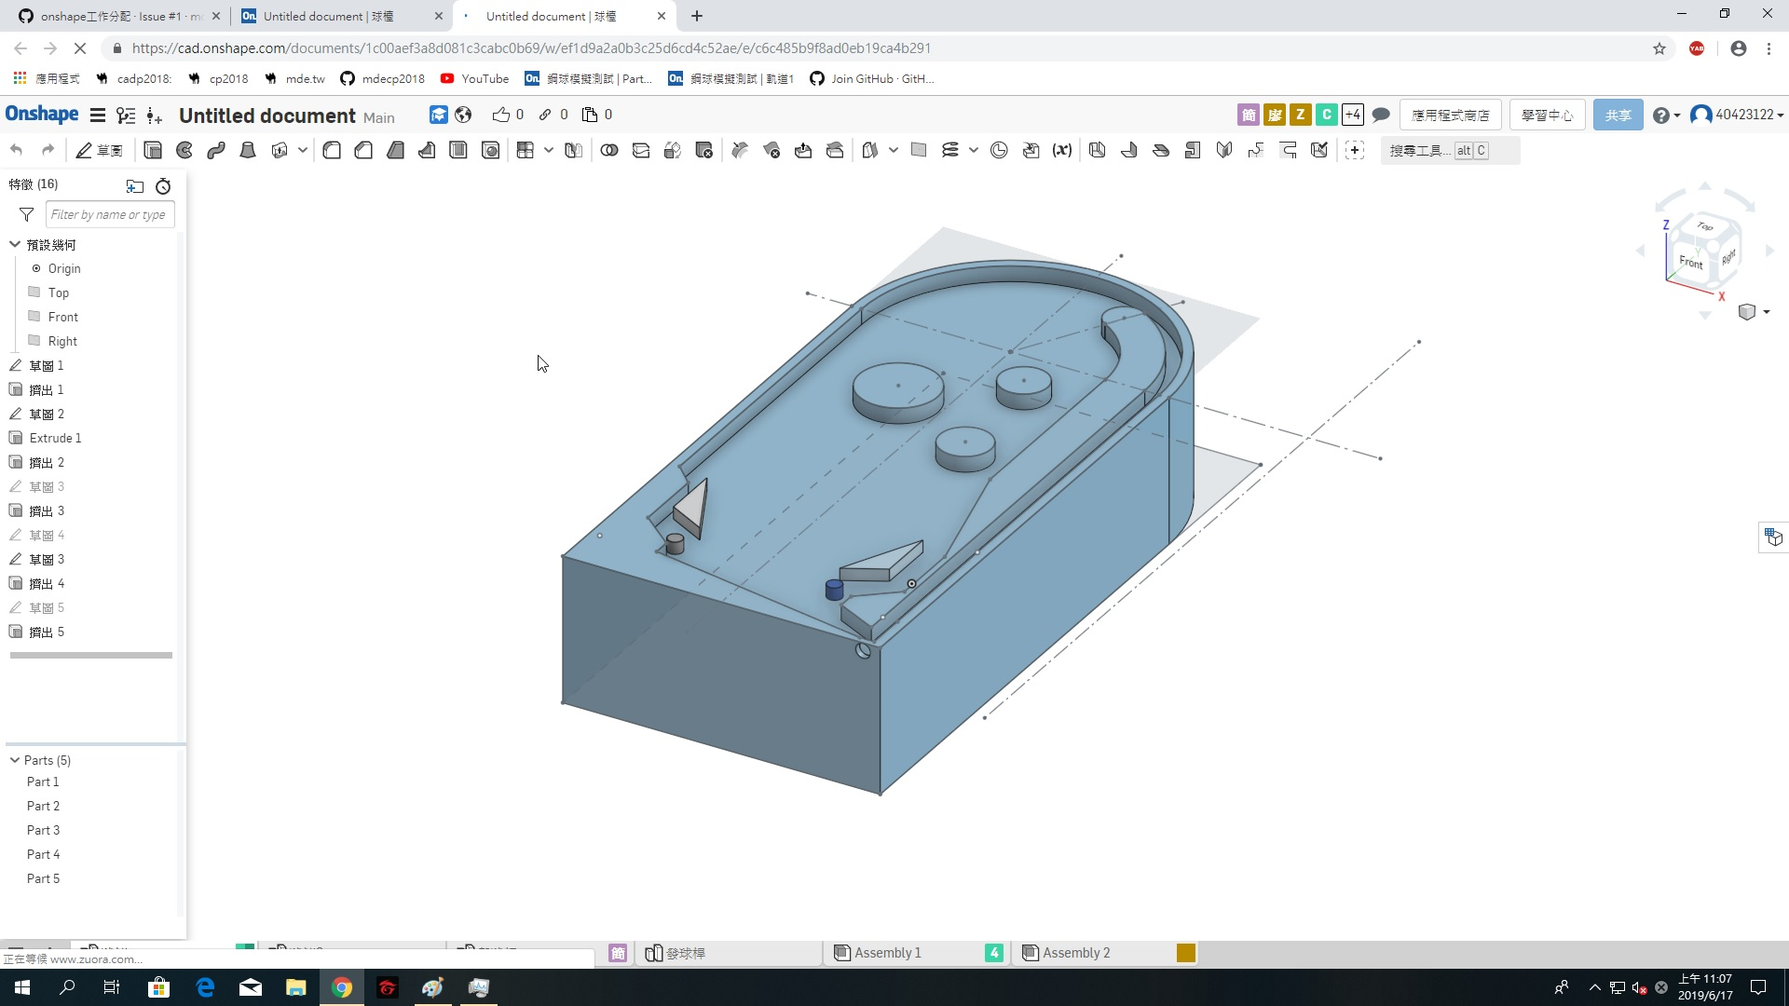
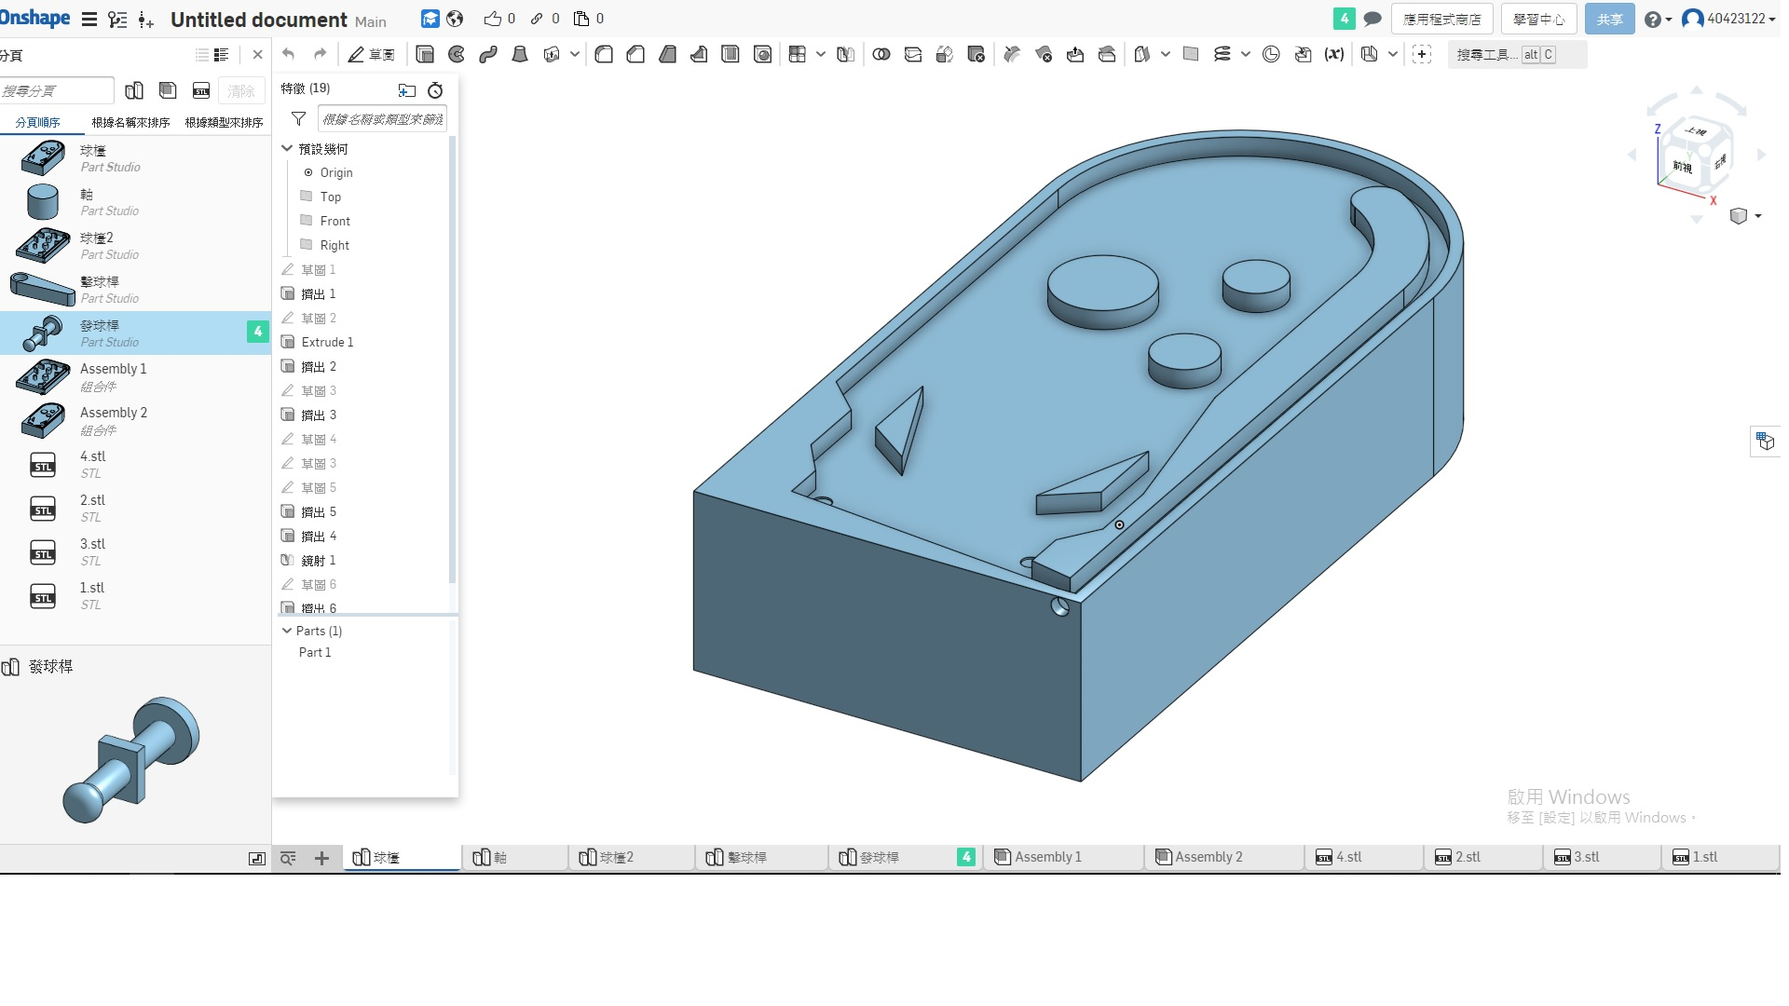
add video and words

diff --git a/content/期末考週彈珠檯.html b/content/期末考週彈珠檯.html
@@ -68,24 +68,15 @@ $(function(){
 </ul>
 </confmenu></header>
 <div class='container'><nav><ul id='css3menu1' class='topmenu'><li><a href='協同倉儲資訊.html'>協同倉儲資訊</a><li><a href='每週心得實紀.html'>每週心得實紀</a><ul><li><a href='期中前.html'>期中前</a><ul><li><a href='第一週.html'>第一週</a><li><a href='第二週.html'>第二週</a><li><a href='第三週.html'>第三週</a><li><a href='第四週.html'>第四週</a><li><a href='第五週.html'>第五週</a><li><a href='第六週.html'>第六週</a><li><a href='第七週.html'>第七週</a><li><a href='第八週.html'>第八週</a><li><a href='第九週.html'>第九週</a></li></ul><li><a href='期中後.html'>期中後</a><ul><li><a href='第十週.html'>第十週</a><li><a href='第十一週.html'>第十一週</a><li><a href='第十二週.html'>第十二週</a><li><a href='第十三週.html'>第十三週</a><li><a href='第十四週.html'>第十四週</a><li><a href='第十五週.html'>第十五週</a><li><a href='第十六週.html'>第十六週</a></li></li></ul></ul><li><a href='自製可攜式系統.html'>自製可攜式系統</a><li><a href='Vrep模擬.html'>Vrep模擬</a><li><a href='VirtualBox建立虛擬主機.html'>VirtualBox建立虛擬主機</a><li><a href='送球機構模擬.html'>送球機構模擬</a><li><a href='期末報告影片.html'>期末報告影片</a><li><a href='期末考週彈珠檯.html'>期末考週彈珠檯</a></li></ul></nav><section>期末報告影片 << <a href='期末報告影片.html'>Previous</a> <br /><h1>期末考週彈珠檯</h1>
-<h6><a href="https://cad.onshape.com/documents/1c00aef3a8d081c3cabc0b69/w/ef1d9a2a0b3c25d6cd4c52ae/e/c284e1c17e1c7c138a990828">https://cad.onshape.com/documents/1c00aef3a8d081c3cabc0b69/w/ef1d9a2a0b3c25d6cd4c52ae/e/c284e1c17e1c7c138a990828</a><br/><br/><a href="https://github.com/mdekmol/cd2019a-task1-2019cda_t1_g6/issues/1">https://github.com/mdekmol/cd2019a-task1-2019cda_t1_g6/issues/1</a></h6>
-<p>老師好我是40423122四設四甲林國蓁</p>
-<p>2019-6-17-11:57</p>
-<p>電腦的錄製軟體出了問題所以用手機替代錄影</p>
-<p>18週期末考 我負責的是球檯的繪製</p>
-<p>途中遇到很多狀況</p>
-<p>一開始的全班網路跑不動</p>
-<p>而在老師修正後</p>
-<p>在網路方面-onshape</p>
-<p>即使電腦沒有運行其他應用程式卻也是非常的當</p>
-<p>導致畫圖十分的不順利</p>
-<p>修改一個尺寸就會當三分鐘</p>
-<p>途中也有告知老師此問題</p>
-<p>老師是說是個人電腦問題</p>
-<p>但全班同學其實都有這個狀況</p>
-<p>可能還需要進一步的改善</p>
-<p>而在vrep方面還在努力中</p>
-<p>先拍影片告知進度</p>
-<p>圖檔就負在個人網頁上了</p>
-<p>網路有點慢</p>
-<p>程式方面也在努力中</p><br />期末報告影片 << <a href='期末報告影片.html'>Previous</a> </section></div></body></html>
+<h6>onshape:<br/><a href="https://cad.onshape.com/documents/1c00aef3a8d081c3cabc0b69/w/ef1d9a2a0b3c25d6cd4c52ae/e/c284e1c17e1c7c138a990828">https://cad.onshape.com/documents/1c00aef3a8d081c3cabc0b69/w/ef1d9a2a0b3c25d6cd4c52ae/e/c284e1c17e1c7c138a990828</a><br/><br/>github issues:<br/><a href="https://github.com/mdekmol/cd2019a-task1-2019cda_t1_g6/issues/1">https://github.com/mdekmol/cd2019a-task1-2019cda_t1_g6/issues/1</a></h6>
+<p>2019-6-17-11:57<br/>老師好我是40423122四設四甲林國蓁<br/><br/>電腦的錄製軟體出了問題所以用手機替代錄影,第18週期末考,我和陳霖負責的是"球檯的繪製",途中遇到很多狀況,一開始的全班網路跑不動,而在老師修正後,在網路方面(onshape)還是有狀況,即使電腦沒有運行其他應用程式,還是非常的當,導致畫圖十分的不順利,修改一個尺寸就會當三分鐘,途中也有告知老師此問題,老師是說是個人電腦問題,但全班同學其實都有這個狀況,小組也有因此而拖延到後續操作時間<br/>往後可能需要考慮是否將此電腦教室的部分設定在重開機後重置,否則很多學生下載了一堆無用的軟體,可能無形中損害電腦的使用效益和同學的權益.<br/><br/>而在vrep和程式方面還在努力中,先拍影片告知進度,圖檔付在個人網頁上<br/><br/>問題排除:<br/>在繪製球檯本體的時候有發現一個問題,在剛開始設計的時候把擊球桿的軸也一起設計在球檯本體上,但是後來發現,在vrep要模擬的時候會無法操作,所以將擊球桿的軸,特地繪製另一軸之零件,而球檯本體則挖出一個洞可以組合擊球桿的軸,vrep才能順利作動<br/><br/><br/></p>
+<p>2019-6-20-00:21<br/><br/>製作出了pinball machine v-rep simulator,以下為操作影片<iframe allowfullscreen="allowfullscreen" height="314" src="//www.youtube.com/embed/FLV4oz4HB48" width="560"></iframe></p>
+<p><span>V-rep ttt 檔案:</span><br/><a href="https://drive.google.com/file/d/1zdIu07mhxdCVrpU4ZcnCn_MovFec96Yv/view?usp=sharing">https://drive.google.com/file/d/1zdIu07mhxdCVrpU4ZcnCn_MovFec96Yv/view?usp=sharing</a></p>
+<p>程式:</p>
+<p>import vrep<br/>import sys, math<br/>import keyboard<br/>#導入vrep和sys,math,keyboard<br/>vrep.simxFinish(-1)<br/><br/>clientID = vrep.simxStart('127.0.0.1', 19997, True, True, 5000, 5)<br/>if clientID!= -1:<br/>print("Connected to remote server")<br/>else:<br/>print('Connection not successful')<br/>sys.exit('Could not connect')</p>
+<p>KickBallV = 360 <br/>R_KickBallVel = (math.pi/180)*KickBallV<br/>B_KickBallVel = -(math.pi/180)*KickBallV</p>
+<p>errorCode,left_handle=vrep.simxGetObjectHandle(clientID,'left',vrep.simx_opmode_oneshot_wait)<br/>errorCode,right_handle=vrep.simxGetObjectHandle(clientID,'right',vrep.simx_opmode_oneshot_wait)<br/>errorCode,pull_handle=vrep.simxGetObjectHandle(clientID,'pull',vrep.simx_opmode_oneshot_wait)<br/>vrep.simxSetJointTargetVelocity(clientID,left_handle,0,vrep.simx_opmode_oneshot_wait)<br/>vrep.simxSetJointTargetVelocity(clientID,right_handle,0,vrep.simx_opmode_oneshot_wait)<br/>vrep.simxSetJointTargetVelocity(clientID,pull_handle,0,vrep.simx_opmode_oneshot_wait)<br/>#將vrep中的傳動left,right(左右桿的旋轉),和pull(打擊桿的拉伸)定義<br/><br/>def a1():<br/>errorCode=vrep.simxSetJointTargetVelocity(clientID,left_handle,R_KickBallVel,vrep.simx_opmode_oneshot_wait)<br/>def d1(): <br/>errorCode=vrep.simxSetJointTargetVelocity(clientID,right_handle,B_KickBallVel,vrep.simx_opmode_oneshot_wait)<br/>def w1():<br/>errorCode=vrep.simxSetJointTargetVelocity(clientID,pull_handle,1,vrep.simx_opmode_oneshot_wait)<br/>#將旋轉和拉伸的速度定義</p>
+<p>vrep.simxStartSimulation(clientID,vrep.simx_opmode_oneshot_wait)</p>
+<p><br/>while True:<br/>try:<br/>if keyboard.is_pressed('a'):<br/>a1()<br/>elif keyboard.is_pressed('l'):<br/>d1()<br/>else:<br/>errorCode=vrep.simxSetJointTargetVelocity(clientID,left_handle,B_KickBallVel,vrep.simx_opmode_oneshot_wait)<br/>errorCode=vrep.simxSetJointTargetVelocity(clientID,right_handle,R_KickBallVel,vrep.simx_opmode_oneshot_wait)<br/>#在此定義按下按鍵"a",左邊搖桿執行動作,按下按鍵"l",右邊搖桿執行動作<br/>if keyboard.is_pressed('up'):<br/>w1()<br/>else:<br/>errorCode=vrep.simxSetJointTargetVelocity(clientID,pull_handle,-1,vrep.simx_opmode_oneshot_wait)<br/>except:<br/>break<br/>#在這邊定義按下按鍵"上箭頭",拉深桿執行動作</p>
+<p><br/>問題排除:<br/>因為這邊有用到keyboard的語法,如果沒有下載keyboard軟體是沒辦法使用的,會跑出錯誤,所以在需要設定按鍵操作之下,我們必須在執行視窗輸入:<br/>(進入tmp)cd tmp<br/>(下載keyboard軟體)pip install keyboard<br/>下載完畢後重新開啟即可使用<br/><br/>結果統整:<br/><br/>本人繪圖零件和陳霖負責繪製球檯<br/><br/><img alt="" height="579" src="./../images/1.jpg" width="1029"/></p>
+<p><img alt="" height="390" src="./../images/2.jpg" width="693"/><br/>其他零件<br/>軸<br/><br/><img alt="" height="478" src="./../images/3.jpg" width="980"/><br/><br/>擊球桿<br/><img alt="" height="259" src="./../images/4.jpg" width="532"/><br/><br/>發球桿<br/><img alt="" height="326" src="./../images/5.jpg" width="669"/><br/><br/>組和件<br/><img alt="" height="366" src="./../images/6.jpg" width="751"/></p><br />期末報告影片 << <a href='期末報告影片.html'>Previous</a> </section></div></body></html>

diff --git a/config/content.htm b/config/content.htm
@@ -89,24 +89,15 @@
 <h6>心得:因為是重修生跟學弟不太熟,所以比較是參與在討論的部分,通送次數比較少,但依舊有記錄每周心得及團體貢獻,在手足球裡面被分配到的是送球機構的設計<br/><br/>ps.(6/18)這邊發現期末的影片沒有放在自己學校的google帳戶內,以防老師找不到,所以6/18額外在此特地在此補充說明</h6>
 <h6><span style="color: #626262; background-color: #ffffff;">用個人帳號如期繳交的期末影片:</span></h6>
 <p><br/><iframe allowfullscreen="allowfullscreen" height="314" src="//www.youtube.com/embed/mR41UceGkOc" width="560"></iframe></p><h1>期末考週彈珠檯</h1>
-<h6><a href="https://cad.onshape.com/documents/1c00aef3a8d081c3cabc0b69/w/ef1d9a2a0b3c25d6cd4c52ae/e/c284e1c17e1c7c138a990828">https://cad.onshape.com/documents/1c00aef3a8d081c3cabc0b69/w/ef1d9a2a0b3c25d6cd4c52ae/e/c284e1c17e1c7c138a990828</a><br/><br/><a href="https://github.com/mdekmol/cd2019a-task1-2019cda_t1_g6/issues/1">https://github.com/mdekmol/cd2019a-task1-2019cda_t1_g6/issues/1</a></h6>
-<p>老師好我是40423122四設四甲林國蓁</p>
-<p>2019-6-17-11:57</p>
-<p>電腦的錄製軟體出了問題所以用手機替代錄影</p>
-<p>18週期末考 我負責的是球檯的繪製</p>
-<p>途中遇到很多狀況</p>
-<p>一開始的全班網路跑不動</p>
-<p>而在老師修正後</p>
-<p>在網路方面-onshape</p>
-<p>即使電腦沒有運行其他應用程式卻也是非常的當</p>
-<p>導致畫圖十分的不順利</p>
-<p>修改一個尺寸就會當三分鐘</p>
-<p>途中也有告知老師此問題</p>
-<p>老師是說是個人電腦問題</p>
-<p>但全班同學其實都有這個狀況</p>
-<p>可能還需要進一步的改善</p>
-<p>而在vrep方面還在努力中</p>
-<p>先拍影片告知進度</p>
-<p>圖檔就負在個人網頁上了</p>
-<p>網路有點慢</p>
-<p>程式方面也在努力中</p>
+<h6>onshape:<br/><a href="https://cad.onshape.com/documents/1c00aef3a8d081c3cabc0b69/w/ef1d9a2a0b3c25d6cd4c52ae/e/c284e1c17e1c7c138a990828">https://cad.onshape.com/documents/1c00aef3a8d081c3cabc0b69/w/ef1d9a2a0b3c25d6cd4c52ae/e/c284e1c17e1c7c138a990828</a><br/><br/>github issues:<br/><a href="https://github.com/mdekmol/cd2019a-task1-2019cda_t1_g6/issues/1">https://github.com/mdekmol/cd2019a-task1-2019cda_t1_g6/issues/1</a></h6>
+<p>2019-6-17-11:57<br/>老師好我是40423122四設四甲林國蓁<br/><br/>電腦的錄製軟體出了問題所以用手機替代錄影,第18週期末考,我和陳霖負責的是"球檯的繪製",途中遇到很多狀況,一開始的全班網路跑不動,而在老師修正後,在網路方面(onshape)還是有狀況,即使電腦沒有運行其他應用程式,還是非常的當,導致畫圖十分的不順利,修改一個尺寸就會當三分鐘,途中也有告知老師此問題,老師是說是個人電腦問題,但全班同學其實都有這個狀況,小組也有因此而拖延到後續操作時間<br/>往後可能需要考慮是否將此電腦教室的部分設定在重開機後重置,否則很多學生下載了一堆無用的軟體,可能無形中損害電腦的使用效益和同學的權益.<br/><br/>而在vrep和程式方面還在努力中,先拍影片告知進度,圖檔付在個人網頁上<br/><br/>問題排除:<br/>在繪製球檯本體的時候有發現一個問題,在剛開始設計的時候把擊球桿的軸也一起設計在球檯本體上,但是後來發現,在vrep要模擬的時候會無法操作,所以將擊球桿的軸,特地繪製另一軸之零件,而球檯本體則挖出一個洞可以組合擊球桿的軸,vrep才能順利作動<br/><br/><br/></p>
+<p>2019-6-20-00:21<br/><br/>製作出了pinball machine v-rep simulator,以下為操作影片<iframe allowfullscreen="allowfullscreen" height="314" src="//www.youtube.com/embed/FLV4oz4HB48" width="560"></iframe></p>
+<p><span>V-rep ttt 檔案:</span><br/><a href="https://drive.google.com/file/d/1zdIu07mhxdCVrpU4ZcnCn_MovFec96Yv/view?usp=sharing">https://drive.google.com/file/d/1zdIu07mhxdCVrpU4ZcnCn_MovFec96Yv/view?usp=sharing</a></p>
+<p>程式:</p>
+<p>import vrep<br/>import sys, math<br/>import keyboard<br/>#導入vrep和sys,math,keyboard<br/>vrep.simxFinish(-1)<br/><br/>clientID = vrep.simxStart('127.0.0.1', 19997, True, True, 5000, 5)<br/>if clientID!= -1:<br/>print("Connected to remote server")<br/>else:<br/>print('Connection not successful')<br/>sys.exit('Could not connect')</p>
+<p>KickBallV = 360 <br/>R_KickBallVel = (math.pi/180)*KickBallV<br/>B_KickBallVel = -(math.pi/180)*KickBallV</p>
+<p>errorCode,left_handle=vrep.simxGetObjectHandle(clientID,'left',vrep.simx_opmode_oneshot_wait)<br/>errorCode,right_handle=vrep.simxGetObjectHandle(clientID,'right',vrep.simx_opmode_oneshot_wait)<br/>errorCode,pull_handle=vrep.simxGetObjectHandle(clientID,'pull',vrep.simx_opmode_oneshot_wait)<br/>vrep.simxSetJointTargetVelocity(clientID,left_handle,0,vrep.simx_opmode_oneshot_wait)<br/>vrep.simxSetJointTargetVelocity(clientID,right_handle,0,vrep.simx_opmode_oneshot_wait)<br/>vrep.simxSetJointTargetVelocity(clientID,pull_handle,0,vrep.simx_opmode_oneshot_wait)<br/>#將vrep中的傳動left,right(左右桿的旋轉),和pull(打擊桿的拉伸)定義<br/><br/>def a1():<br/>errorCode=vrep.simxSetJointTargetVelocity(clientID,left_handle,R_KickBallVel,vrep.simx_opmode_oneshot_wait)<br/>def d1(): <br/>errorCode=vrep.simxSetJointTargetVelocity(clientID,right_handle,B_KickBallVel,vrep.simx_opmode_oneshot_wait)<br/>def w1():<br/>errorCode=vrep.simxSetJointTargetVelocity(clientID,pull_handle,1,vrep.simx_opmode_oneshot_wait)<br/>#將旋轉和拉伸的速度定義</p>
+<p>vrep.simxStartSimulation(clientID,vrep.simx_opmode_oneshot_wait)</p>
+<p><br/>while True:<br/>try:<br/>if keyboard.is_pressed('a'):<br/>a1()<br/>elif keyboard.is_pressed('l'):<br/>d1()<br/>else:<br/>errorCode=vrep.simxSetJointTargetVelocity(clientID,left_handle,B_KickBallVel,vrep.simx_opmode_oneshot_wait)<br/>errorCode=vrep.simxSetJointTargetVelocity(clientID,right_handle,R_KickBallVel,vrep.simx_opmode_oneshot_wait)<br/>#在此定義按下按鍵"a",左邊搖桿執行動作,按下按鍵"l",右邊搖桿執行動作<br/>if keyboard.is_pressed('up'):<br/>w1()<br/>else:<br/>errorCode=vrep.simxSetJointTargetVelocity(clientID,pull_handle,-1,vrep.simx_opmode_oneshot_wait)<br/>except:<br/>break<br/>#在這邊定義按下按鍵"上箭頭",拉深桿執行動作</p>
+<p><br/>問題排除:<br/>因為這邊有用到keyboard的語法,如果沒有下載keyboard軟體是沒辦法使用的,會跑出錯誤,所以在需要設定按鍵操作之下,我們必須在執行視窗輸入:<br/>(進入tmp)cd tmp<br/>(下載keyboard軟體)pip install keyboard<br/>下載完畢後重新開啟即可使用<br/><br/>結果統整:<br/><br/>本人繪圖零件和陳霖負責繪製球檯<br/><br/><img alt="" height="579" src="/images/1.jpg" width="1029"/></p>
+<p><img alt="" height="390" src="/images/2.jpg" width="693"/><br/>其他零件<br/>軸<br/><br/><img alt="" height="478" src="/images/3.jpg" width="980"/><br/><br/>擊球桿<br/><img alt="" height="259" src="/images/4.jpg" width="532"/><br/><br/>發球桿<br/><img alt="" height="326" src="/images/5.jpg" width="669"/><br/><br/>組和件<br/><img alt="" height="366" src="/images/6.jpg" width="751"/></p>

diff --git a/config/content_backup.htm b/config/content_backup.htm
@@ -89,24 +89,15 @@
 <h6>心得:因為是重修生跟學弟不太熟,所以比較是參與在討論的部分,通送次數比較少,但依舊有記錄每周心得及團體貢獻,在手足球裡面被分配到的是送球機構的設計<br/><br/>ps.(6/18)這邊發現期末的影片沒有放在自己學校的google帳戶內,以防老師找不到,所以6/18額外在此特地在此補充說明</h6>
 <h6><span style="color: #626262; background-color: #ffffff;">用個人帳號如期繳交的期末影片:</span></h6>
 <p><br/><iframe allowfullscreen="allowfullscreen" height="314" src="//www.youtube.com/embed/mR41UceGkOc" width="560"></iframe></p><h1>期末考週彈珠檯</h1>
-<h6><a href="https://cad.onshape.com/documents/1c00aef3a8d081c3cabc0b69/w/ef1d9a2a0b3c25d6cd4c52ae/e/c284e1c17e1c7c138a990828">https://cad.onshape.com/documents/1c00aef3a8d081c3cabc0b69/w/ef1d9a2a0b3c25d6cd4c52ae/e/c284e1c17e1c7c138a990828</a><br/><br/><a href="https://github.com/mdekmol/cd2019a-task1-2019cda_t1_g6/issues/1">https://github.com/mdekmol/cd2019a-task1-2019cda_t1_g6/issues/1</a></h6>
-<p>老師好我是40423122四設四甲林國蓁</p>
-<p>2019-6-17-11:57</p>
-<p>電腦的錄製軟體出了問題所以用手機替代錄影</p>
-<p>18週期末考 我負責的是球檯的繪製</p>
-<p>途中遇到很多狀況</p>
-<p>一開始的全班網路跑不動</p>
-<p>而在老師修正後</p>
-<p>在網路方面-onshape</p>
-<p>即使電腦沒有運行其他應用程式卻也是非常的當</p>
-<p>導致畫圖十分的不順利</p>
-<p>修改一個尺寸就會當三分鐘</p>
-<p>途中也有告知老師此問題</p>
-<p>老師是說是個人電腦問題</p>
-<p>但全班同學其實都有這個狀況</p>
-<p>可能還需要進一步的改善</p>
-<p>而在vrep方面還在努力中</p>
-<p>先拍影片告知進度</p>
-<p>圖檔就負在個人網頁上了</p>
-<p>網路有點慢</p>
-<p>程式方面也在努力中</p>
+<h6>onshape:<br/><a href="https://cad.onshape.com/documents/1c00aef3a8d081c3cabc0b69/w/ef1d9a2a0b3c25d6cd4c52ae/e/c284e1c17e1c7c138a990828">https://cad.onshape.com/documents/1c00aef3a8d081c3cabc0b69/w/ef1d9a2a0b3c25d6cd4c52ae/e/c284e1c17e1c7c138a990828</a><br/><br/>github issues:<br/><a href="https://github.com/mdekmol/cd2019a-task1-2019cda_t1_g6/issues/1">https://github.com/mdekmol/cd2019a-task1-2019cda_t1_g6/issues/1</a></h6>
+<p>2019-6-17-11:57<br/>老師好我是40423122四設四甲林國蓁<br/><br/>電腦的錄製軟體出了問題所以用手機替代錄影,第18週期末考,我和陳霖負責的是"球檯的繪製",途中遇到很多狀況,一開始的全班網路跑不動,而在老師修正後,在網路方面(onshape)還是有狀況,即使電腦沒有運行其他應用程式,還是非常的當,導致畫圖十分的不順利,修改一個尺寸就會當三分鐘,途中也有告知老師此問題,老師是說是個人電腦問題,但全班同學其實都有這個狀況,小組也有因此而拖延到後續操作時間<br/>往後可能需要考慮是否將此電腦教室的部分設定在重開機後重置,否則很多學生下載了一堆無用的軟體,可能無形中損害電腦的使用效益和同學的權益.<br/><br/>而在vrep和程式方面還在努力中,先拍影片告知進度,圖檔付在個人網頁上<br/><br/><br/></p>
+<p>2019-6-20-00:21<br/><br/>製作出了pinball machine v-rep simulator,以下為操作影片<iframe allowfullscreen="allowfullscreen" height="314" src="//www.youtube.com/embed/FLV4oz4HB48" width="560"></iframe></p>
+<p><span>V-rep ttt 檔案:</span><br/><a href="https://drive.google.com/file/d/1zdIu07mhxdCVrpU4ZcnCn_MovFec96Yv/view?usp=sharing">https://drive.google.com/file/d/1zdIu07mhxdCVrpU4ZcnCn_MovFec96Yv/view?usp=sharing</a></p>
+<p>程式:</p>
+<p>import vrep<br/>import sys, math<br/>import keyboard<br/>#導入vrep和sys,math,keyboard<br/>vrep.simxFinish(-1)<br/><br/>clientID = vrep.simxStart('127.0.0.1', 19997, True, True, 5000, 5)<br/>if clientID!= -1:<br/>print("Connected to remote server")<br/>else:<br/>print('Connection not successful')<br/>sys.exit('Could not connect')</p>
+<p>KickBallV = 360 <br/>R_KickBallVel = (math.pi/180)*KickBallV<br/>B_KickBallVel = -(math.pi/180)*KickBallV</p>
+<p>errorCode,left_handle=vrep.simxGetObjectHandle(clientID,'left',vrep.simx_opmode_oneshot_wait)<br/>errorCode,right_handle=vrep.simxGetObjectHandle(clientID,'right',vrep.simx_opmode_oneshot_wait)<br/>errorCode,pull_handle=vrep.simxGetObjectHandle(clientID,'pull',vrep.simx_opmode_oneshot_wait)<br/>vrep.simxSetJointTargetVelocity(clientID,left_handle,0,vrep.simx_opmode_oneshot_wait)<br/>vrep.simxSetJointTargetVelocity(clientID,right_handle,0,vrep.simx_opmode_oneshot_wait)<br/>vrep.simxSetJointTargetVelocity(clientID,pull_handle,0,vrep.simx_opmode_oneshot_wait)<br/>#將vrep中的傳動left,right(左右桿的旋轉),和pull(打擊桿的拉伸)定義<br/><br/>def a1():<br/>errorCode=vrep.simxSetJointTargetVelocity(clientID,left_handle,R_KickBallVel,vrep.simx_opmode_oneshot_wait)<br/>def d1(): <br/>errorCode=vrep.simxSetJointTargetVelocity(clientID,right_handle,B_KickBallVel,vrep.simx_opmode_oneshot_wait)<br/>def w1():<br/>errorCode=vrep.simxSetJointTargetVelocity(clientID,pull_handle,1,vrep.simx_opmode_oneshot_wait)<br/>#將旋轉和拉伸的速度定義</p>
+<p>vrep.simxStartSimulation(clientID,vrep.simx_opmode_oneshot_wait)</p>
+<p><br/>while True:<br/>try:<br/>if keyboard.is_pressed('a'):<br/>a1()<br/>elif keyboard.is_pressed('l'):<br/>d1()<br/>else:<br/>errorCode=vrep.simxSetJointTargetVelocity(clientID,left_handle,B_KickBallVel,vrep.simx_opmode_oneshot_wait)<br/>errorCode=vrep.simxSetJointTargetVelocity(clientID,right_handle,R_KickBallVel,vrep.simx_opmode_oneshot_wait)<br/>#在此定義按下按鍵"a",左邊搖桿執行動作,按下按鍵"l",右邊搖桿執行動作<br/>if keyboard.is_pressed('up'):<br/>w1()<br/>else:<br/>errorCode=vrep.simxSetJointTargetVelocity(clientID,pull_handle,-1,vrep.simx_opmode_oneshot_wait)<br/>except:<br/>break<br/>#在這邊定義按下按鍵"上箭頭",拉深桿執行動作</p>
+<p><br/>問題排除:<br/>因為這邊有用到keyboard的語法,如果沒有下載keyboard軟體是沒辦法使用的,會跑出錯誤,所以在需要設定按鍵操作之下,我們必須在執行視窗輸入:<br/>(進入tmp)cd tmp<br/>(下載keyboard軟體)pip install keyboard<br/>下載完畢後重新開啟即可使用<br/><br/>結果統整:<br/><br/>本人繪圖零件和陳霖負責繪製球檯<br/><br/><img alt="" height="579" src="/images/1.jpg" width="1029"/></p>
+<p><img alt="" height="390" src="/images/2.jpg" width="693"/><br/>其他零件<br/><br/><img alt="" height="936" src="/images/3.jpg" width="1919"/><br/><img alt="" height="933" src="/images/4.jpg" width="1918"/><br/><img alt="" height="936" src="/images/5.jpg" width="1919"/><br/><br/><br/><img alt="" height="748" src="/images/6.jpg" width="1534"/></p>
